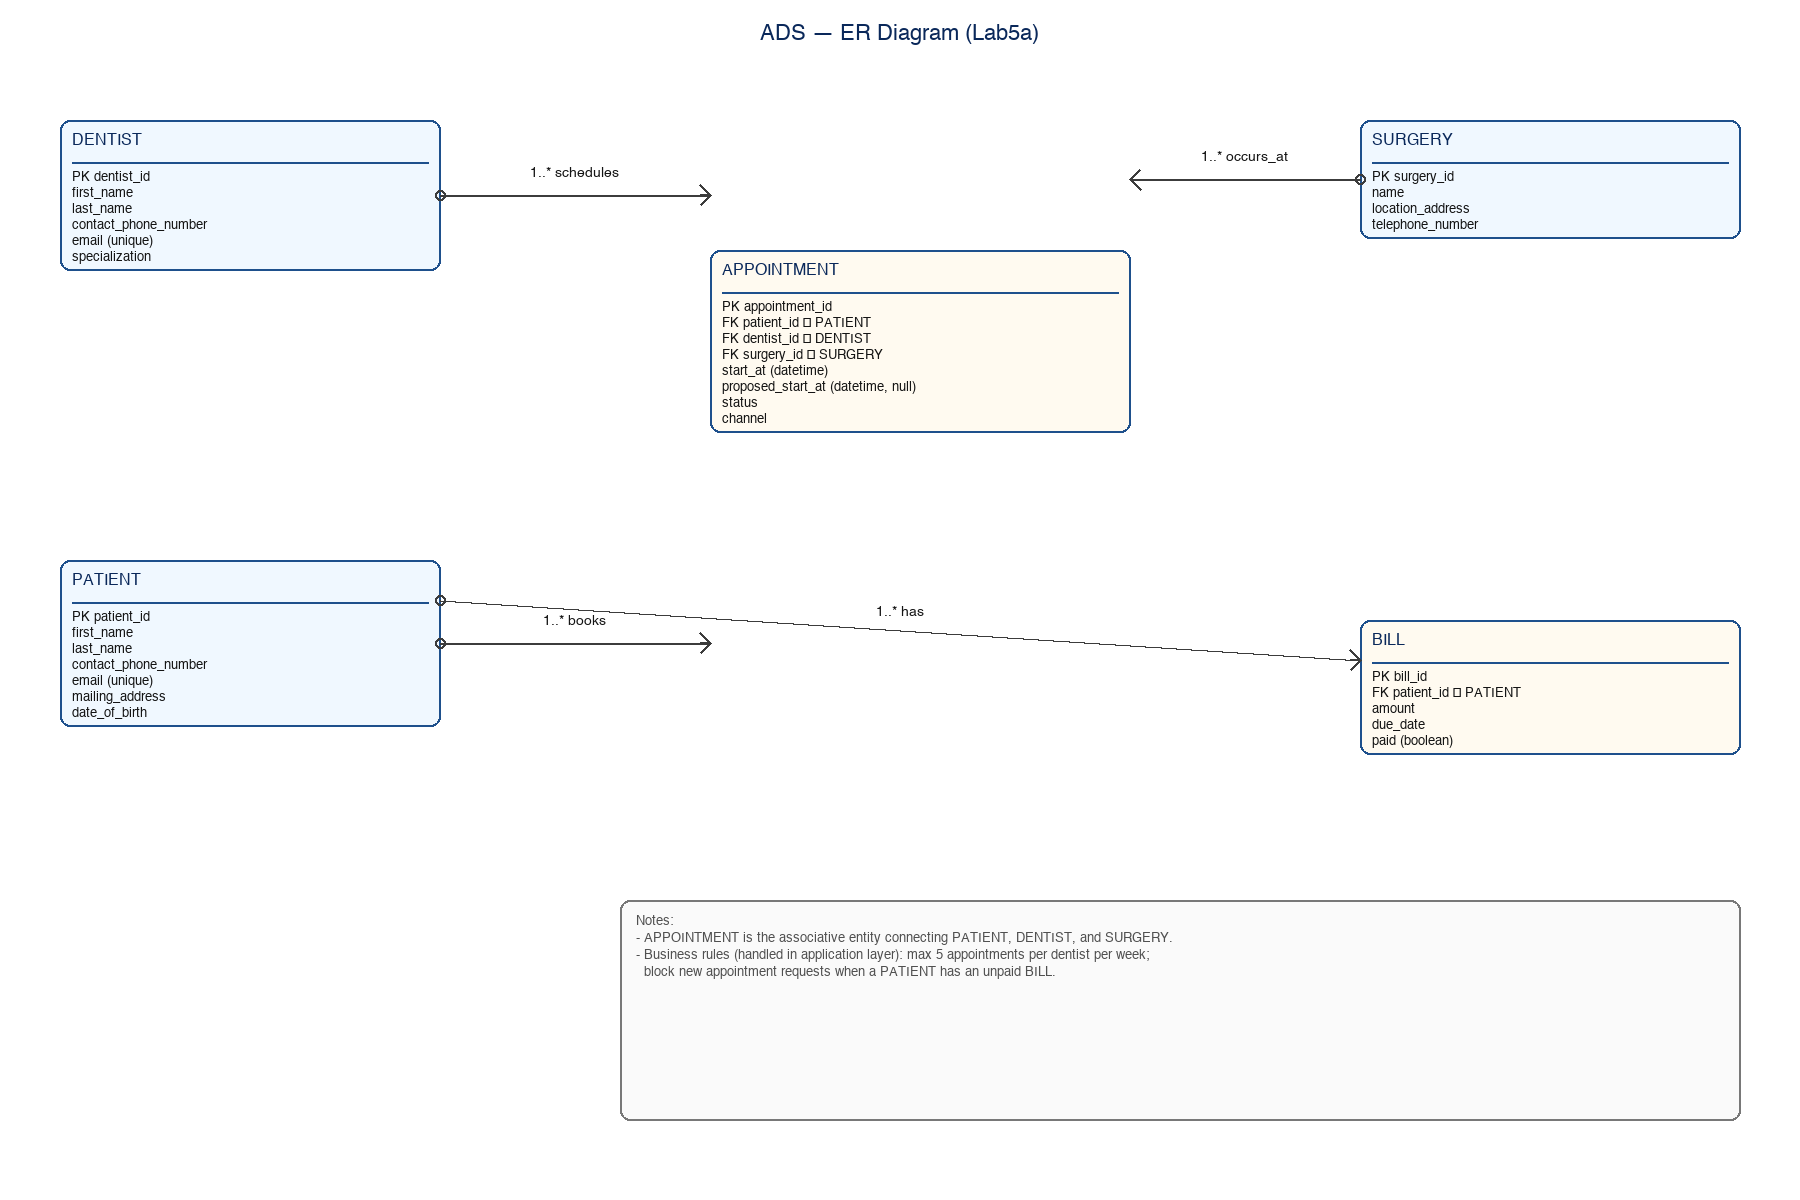
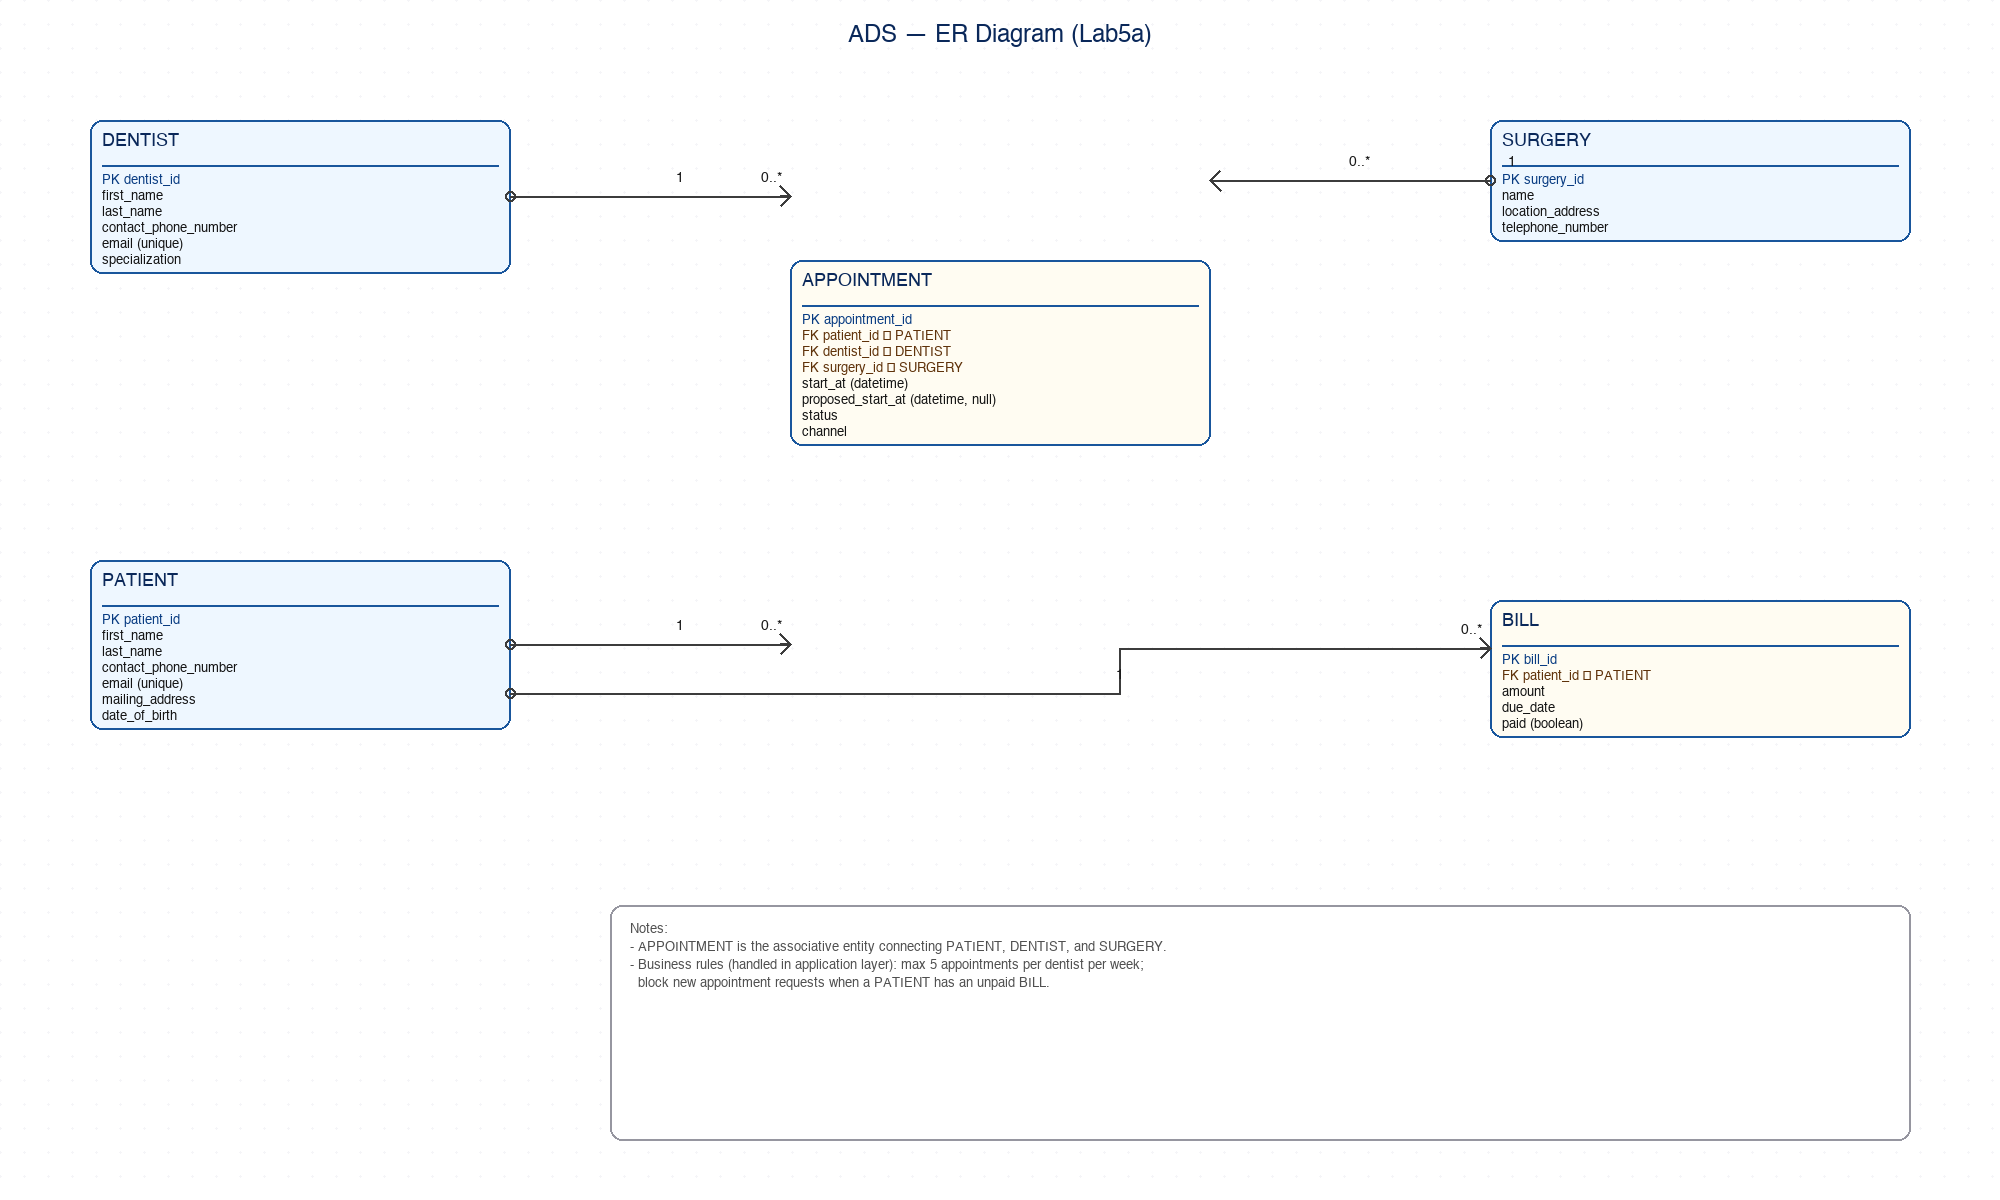
Lab 5a: improve ER diagram layout and styling
Polish ERD rendering: larger canvas, consistent placement, PK/FK
highlighting, orthogonal relationship connectors, clearer cardinalities,
and cleaner note panel.

Made-with: Cursor

diff --git a/lab5/generate_er_diagram.py b/lab5/generate_er_diagram.py
@@ -8,17 +8,19 @@ from pathlib import Path
 
 from PIL import Image, ImageDraw, ImageFont
 
-W, H = 1800, 1200
+W, H = 2000, 1200
 OUT = Path(__file__).resolve().parent / "ads-er-diagram.png"
 
 WHITE = (255, 255, 255)
-BOX = (240, 248, 255)
-BOX2 = (255, 250, 240)
-EDGE = (30, 80, 140)
+BOX = (238, 247, 255)
+BOX2 = (255, 252, 242)
+EDGE = (25, 86, 156)
 TEXT = (20, 20, 20)
 LINE = (60, 60, 60)
 TITLE = (10, 40, 90)
 MUTED = (80, 80, 80)
+BG_DOT = (245, 245, 248)
+REL = (25, 25, 25)
 
 
 def load_font(size: int) -> ImageFont.FreeTypeFont | ImageFont.ImageFont:
@@ -72,13 +74,18 @@ def entity(
     line_h = int(font_body.size * 1.25)
     h = pad * 2 + int(font_title.size * 1.4) + 8 + line_h * len(attrs)
     x1, y1 = x0 + w, y0 + h
-    draw.rounded_rectangle([x0, y0, x1, y1], radius=10, fill=fill, outline=EDGE, width=2)
+    draw.rounded_rectangle([x0, y0, x1, y1], radius=12, fill=fill, outline=EDGE, width=2)
     draw.text((x0 + pad, y0 + pad), title, fill=TITLE, font=font_title)
     y = y0 + pad + int(font_title.size * 1.4) + 8
     draw.line([(x0 + pad, y), (x1 - pad, y)], fill=EDGE, width=2)
     y += 8
     for a in attrs:
-        draw.text((x0 + pad, y), a, fill=TEXT, font=font_body)
+        color = TEXT
+        if a.startswith("PK "):
+            color = (9, 60, 130)
+        elif a.startswith("FK "):
+            color = (95, 50, 10)
+        draw.text((x0 + pad, y), a, fill=color, font=font_body)
         y += line_h
     return x0, y0, x1, y1
 
@@ -104,22 +111,44 @@ def crowfoot(draw: ImageDraw.ImageDraw, x: int, y: int, direction: str) -> None:
         draw.line([(x, y), (x + d, y - d)], fill=LINE, width=2)
 
 
+def one_marker(draw: ImageDraw.ImageDraw, x: int, y: int) -> None:
+    draw.ellipse([x - 5, y - 5, x + 5, y + 5], outline=LINE, width=2)
+
+
+def connect_ortho(
+    draw: ImageDraw.ImageDraw,
+    start: tuple[int, int],
+    end: tuple[int, int],
+    mid_x: int,
+    width: int = 2,
+) -> None:
+    """Orthogonal connector: start -> (mid_x,start_y) -> (mid_x,end_y) -> end."""
+    x0, y0 = start
+    x1, y1 = end
+    draw.line([(x0, y0), (mid_x, y0), (mid_x, y1), (x1, y1)], fill=LINE, width=width, joint="curve")
+
+
 def main() -> None:
     img = Image.new("RGB", (W, H), WHITE)
     draw = ImageDraw.Draw(img)
-    f_title = load_font(22)
-    f_ent = load_font(16)
+    f_title = load_font(24)
+    f_ent = load_font(18)
     f_attr = load_font(13)
     f_rel = load_font(14)
+
+    # Subtle dotted background (helps alignment and readability)
+    for y in range(0, H, 24):
+        for x in range(0, W, 24):
+            draw.ellipse([x - 1, y - 1, x + 1, y + 1], fill=BG_DOT)
 
     draw.text((W // 2, 24), "ADS — ER Diagram (Lab5a)", fill=TITLE, font=f_title, anchor="mt")
 
     # Entities
     dentist = entity(
         draw,
-        60,
+        90,
         120,
-        380,
+        420,
         "DENTIST",
         [
             "PK dentist_id",
@@ -136,9 +165,9 @@ def main() -> None:
 
     patient = entity(
         draw,
-        60,
+        90,
         560,
-        380,
+        420,
         "PATIENT",
         [
             "PK patient_id",
@@ -156,9 +185,9 @@ def main() -> None:
 
     surgery = entity(
         draw,
-        1360,
+        1490,
         120,
-        380,
+        420,
         "SURGERY",
         [
             "PK surgery_id",
@@ -173,8 +202,8 @@ def main() -> None:
 
     appointment = entity(
         draw,
-        710,
-        250,
+        790,
+        260,
         420,
         "APPOINTMENT",
         [
@@ -194,9 +223,9 @@ def main() -> None:
 
     bill = entity(
         draw,
-        1360,
-        620,
-        380,
+        1490,
+        600,
+        420,
         "BILL",
         [
             "PK bill_id",
@@ -210,45 +239,45 @@ def main() -> None:
         fill=BOX2,
     )
 
-    # Relationships (crow's foot)
-    # DENTIST 1 --- * APPOINTMENT
-    dx1 = dentist[2]
-    dy = (dentist[1] + dentist[3]) // 2
+    # Relationships (crow's foot) - orthogonal connectors for a cleaner look
     ax0 = appointment[0]
-    ay = dy
-    draw.line([(dx1, dy), (ax0, ay)], fill=LINE, width=2)
-    draw.text(((dx1 + ax0) // 2, dy - 22), "1..* schedules", fill=TEXT, font=f_rel, anchor="mm")
-    crowfoot(draw, ax0, ay, "left")
-    draw.ellipse([dx1 - 5, dy - 5, dx1 + 5, dy + 5], outline=LINE, width=2)  # 1 side marker
-
-    # PATIENT 1 --- * APPOINTMENT
-    px1 = patient[2]
-    py = (patient[1] + patient[3]) // 2
-    ay2 = py
-    draw.line([(px1, py), (ax0, ay2)], fill=LINE, width=2)
-    draw.text(((px1 + ax0) // 2, py - 22), "1..* books", fill=TEXT, font=f_rel, anchor="mm")
-    crowfoot(draw, ax0, ay2, "left")
-    draw.ellipse([px1 - 5, py - 5, px1 + 5, py + 5], outline=LINE, width=2)
-
-    # SURGERY 1 --- * APPOINTMENT
-    sx0 = surgery[0]
-    sy = (surgery[1] + surgery[3]) // 2
     ax1 = appointment[2]
-    ay3 = sy
-    draw.line([(ax1, ay3), (sx0, sy)], fill=LINE, width=2)
-    draw.text(((ax1 + sx0) // 2, sy - 22), "1..* occurs_at", fill=TEXT, font=f_rel, anchor="mm")
-    crowfoot(draw, ax1, ay3, "right")
-    draw.ellipse([sx0 - 5, sy - 5, sx0 + 5, sy + 5], outline=LINE, width=2)
 
-    # PATIENT 1 --- * BILL
-    pxm = patient[2]
-    pym = patient[1] + 40
-    bx0 = bill[0]
-    bym = bill[1] + 40
-    draw.line([(pxm, pym), (bx0, bym)], fill=LINE, width=2)
-    draw.text(((pxm + bx0) // 2, (pym + bym) // 2 - 18), "1..* has", fill=TEXT, font=f_rel, anchor="mm")
-    crowfoot(draw, bx0, bym, "left")
-    draw.ellipse([pxm - 5, pym - 5, pxm + 5, pym + 5], outline=LINE, width=2)
+    # DENTIST (1) — (0..*) APPOINTMENT
+    d_out = (dentist[2], (dentist[1] + dentist[3]) // 2)
+    a_in_d = (ax0, d_out[1])
+    connect_ortho(draw, d_out, a_in_d, mid_x=680)
+    one_marker(draw, d_out[0], d_out[1])
+    crowfoot(draw, a_in_d[0], a_in_d[1], "left")
+    draw.text((680, d_out[1] - 18), "1", fill=REL, font=f_rel, anchor="mm")
+    draw.text((ax0 - 18, d_out[1] - 18), "0..*", fill=REL, font=f_rel, anchor="mm")
+
+    # PATIENT (1) — (0..*) APPOINTMENT
+    p_out = (patient[2], (patient[1] + patient[3]) // 2)
+    a_in_p = (ax0, p_out[1])
+    connect_ortho(draw, p_out, a_in_p, mid_x=680)
+    one_marker(draw, p_out[0], p_out[1])
+    crowfoot(draw, a_in_p[0], a_in_p[1], "left")
+    draw.text((680, p_out[1] - 18), "1", fill=REL, font=f_rel, anchor="mm")
+    draw.text((ax0 - 18, p_out[1] - 18), "0..*", fill=REL, font=f_rel, anchor="mm")
+
+    # SURGERY (1) — (0..*) APPOINTMENT
+    s_out = (surgery[0], (surgery[1] + surgery[3]) // 2)
+    a_in_s = (ax1, s_out[1])
+    connect_ortho(draw, a_in_s, s_out, mid_x=1360)
+    one_marker(draw, s_out[0], s_out[1])
+    crowfoot(draw, a_in_s[0], a_in_s[1], "right")
+    draw.text((1360, s_out[1] - 18), "0..*", fill=REL, font=f_rel, anchor="mm")
+    draw.text((s_out[0] + 22, s_out[1] - 18), "1", fill=REL, font=f_rel, anchor="mm")
+
+    # PATIENT (1) — (0..*) BILL
+    p_out2 = (patient[2], patient[3] - 36)
+    b_in = (bill[0], bill[1] + 48)
+    connect_ortho(draw, p_out2, b_in, mid_x=1120)
+    one_marker(draw, p_out2[0], p_out2[1])
+    crowfoot(draw, b_in[0], b_in[1], "left")
+    draw.text((1120, p_out2[1] - 18), "1", fill=REL, font=f_rel, anchor="mm")
+    draw.text((bill[0] - 18, b_in[1] - 18), "0..*", fill=REL, font=f_rel, anchor="mm")
 
     note = (
         "Notes:\n"
@@ -256,12 +285,11 @@ def main() -> None:
         "- Business rules (handled in application layer): max 5 appointments per dentist per week; \n"
         "  block new appointment requests when a PATIENT has an unpaid BILL."
     )
-    draw.rounded_rectangle([620, 900, 1740, 1120], radius=10, fill=(250, 250, 250), outline=(120, 120, 120), width=2)
-    draw_text = ImageDraw.Draw(img)
-    y0 = 914
+    draw.rounded_rectangle([610, 905, 1910, 1140], radius=12, fill=(255, 255, 255), outline=(150, 150, 160), width=2)
+    y0 = 922
     for line in note.splitlines():
-        draw_text.text((636, y0), line, fill=MUTED, font=f_attr)
-        y0 += int(f_attr.size * 1.35)
+        draw.text((630, y0), line, fill=MUTED, font=f_attr)
+        y0 += int(f_attr.size * 1.4)
 
     img.save(OUT, format="PNG", optimize=True)
     print("Wrote", OUT)
